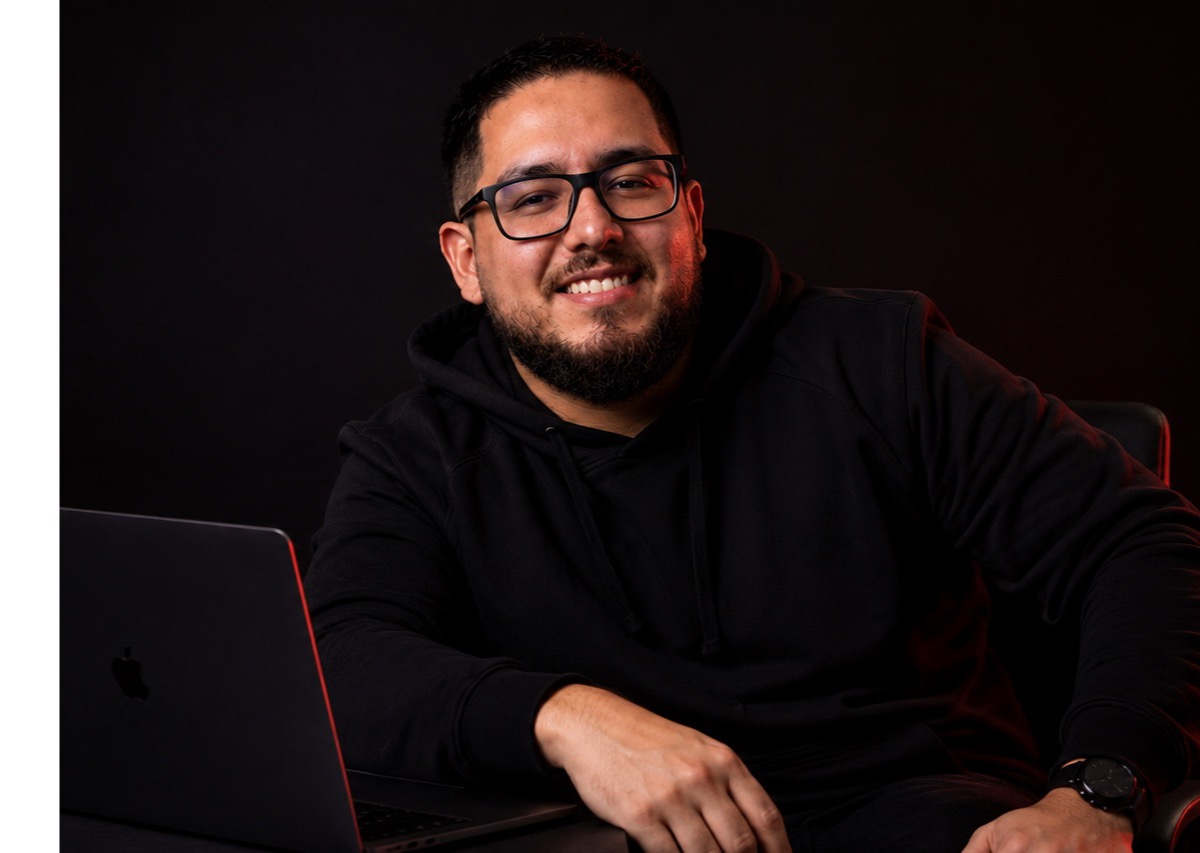
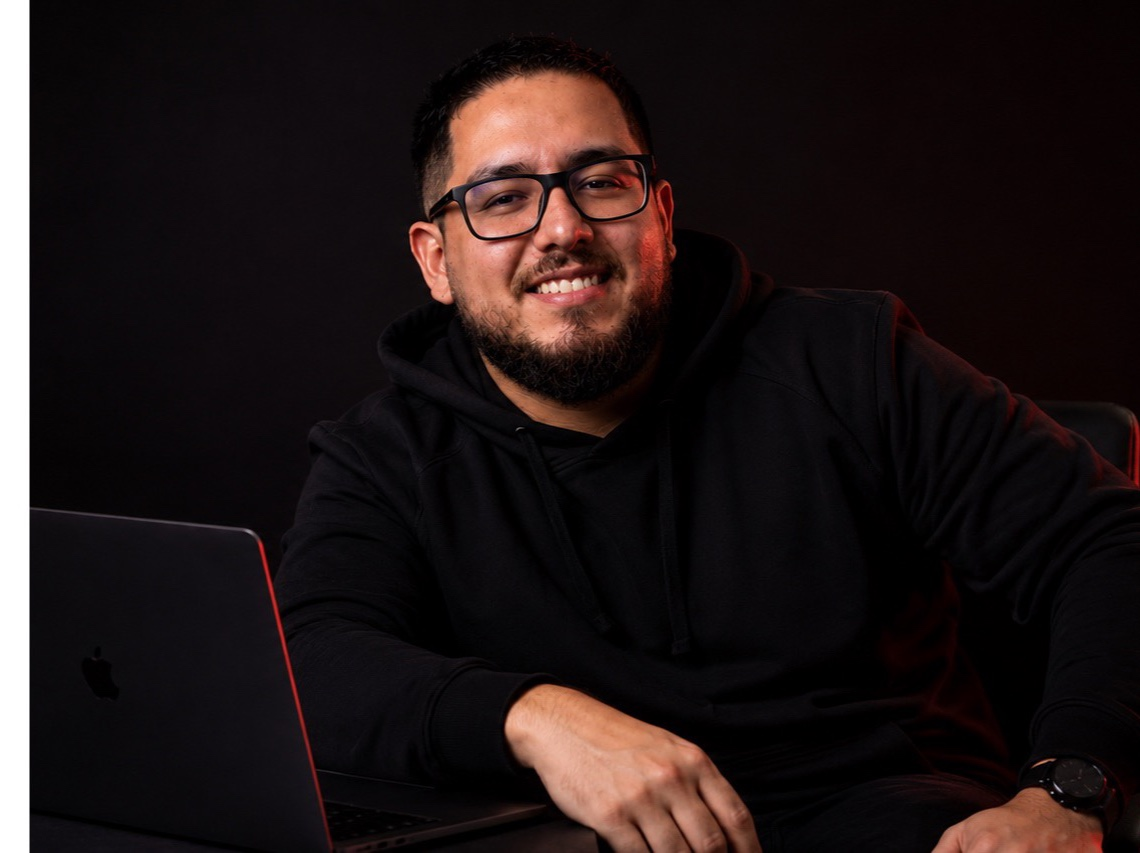
fix: rebalance hero layout and clean up hero photo
- Re-crop hero photo to remove baked-in white side bars
- Drop the portrait-era gradient edge that read as a light sliver;
  clean border + red offset panel as the accent
- Reduce headline size and widen the photo column so they balance
- Shorten top-nav blog link to "Blog" + nowrap so the language
  switcher fits on one line

diff --git a/assets/css/additions.css b/assets/css/additions.css
@@ -198,14 +198,19 @@
 .blogtop__right { display: flex; align-items: center; gap: 14px; }
 .mobile-menu .langsw { margin-top: 28px; align-self: flex-start; }
 
-/* ---------- Hero: landscape portrait (real photo, ~1.4:1) ---------- */
-/* The hero photo is wide, so the frame matches its (cropped) native ratio
-   — no crop at render time → both Rodrigo and the laptop stay in frame —
-   and the grid rebalances to give the image real presence next to the
-   headline. The source's baked-in white side bars were trimmed away. */
-.hero__grid { grid-template-columns: 1.05fr 0.95fr; }
+/* ---------- Hero: landscape portrait (real photo) ---------- */
+/* The photo is landscape (you + the laptop). The frame is a touch
+   narrower than the image so object-fit: cover trims the source's faint
+   baked-in side margins. Headline is dialed back and the grid leans
+   toward the photo so the two columns balance instead of the image
+   floating tiny next to a giant headline. */
+.hero { padding-top: 116px; }
+.hero__grid { grid-template-columns: 1fr 1.1fr; align-items: center; gap: clamp(28px, 3.6vw, 56px); }
+.hero h1 { font-size: clamp(40px, 6vw, 82px); }
+.hero__sub { margin-top: 20px; }
+
 .hero__portrait {
-  aspect-ratio: 1200 / 853;
+  aspect-ratio: 1140 / 853;     /* matches the cleaned photo (white side bars removed) */
   margin-bottom: 0;
   border-radius: var(--r-lg) var(--r-lg) var(--r-lg) 40px;
 }
@@ -214,14 +219,25 @@
   border-radius: var(--r-lg) var(--r-lg) var(--r-lg) 40px;
   object-fit: cover;
   object-position: center;
+  border: 1px solid var(--line-2);
 }
-.hero__portrait::before { border-radius: var(--r-lg) var(--r-lg) var(--r-lg) 40px; }
-/* offset accent panel + floating chips, retuned for a wide short card */
-.hero__portrait::after { width: 54%; height: 70%; right: -14px; bottom: -14px; }
+/* the original gradient edge was tuned for a tall portrait; on the wide
+   photo it read as a faint light sliver, so drop it and let the offset
+   red panel be the accent. */
+.hero__portrait::before { display: none; }
+/* offset accent panel + floating chips, retuned for this card */
+.hero__portrait::after { width: 50%; height: 64%; right: -14px; bottom: -14px; }
 .hero__tag { top: 16px; right: -12px; }
 .hero__badge { bottom: -16px; left: 16px; }
 
 @media (max-width: 980px) {
   .hero__grid { grid-template-columns: 1fr; }
-  .hero__portrait { max-width: 600px; margin: 8px auto 0; }
+  .hero__portrait { max-width: 620px; margin: 8px auto 0; }
 }
+
+/* ---------- Nav: keep it on one line with the language switcher ---------- */
+.nav__links { gap: 26px; }
+.nav__links a { white-space: nowrap; }
+.nav__cta { gap: 12px; }
+.langsw { padding: 2px; }
+.langsw button { padding: 5px 9px; font-size: 11px; }

diff --git a/assets/js/content.js b/assets/js/content.js
@@ -134,7 +134,7 @@
         <a class="logo" href="#top" aria-label="${SITE.name} — home">${logoHTML(SITE.brand || "Hustle Tech")}</a>
         <nav class="nav__links">
           ${links.map((l) => `<a href="${l.href}">${l.label}</a>`).join("")}
-          <a href="blog.html">${T("nav.blog")}</a>
+          <a href="blog.html">Blog</a>
         </nav>
         <div class="nav__cta">
           ${langSwitcher()}